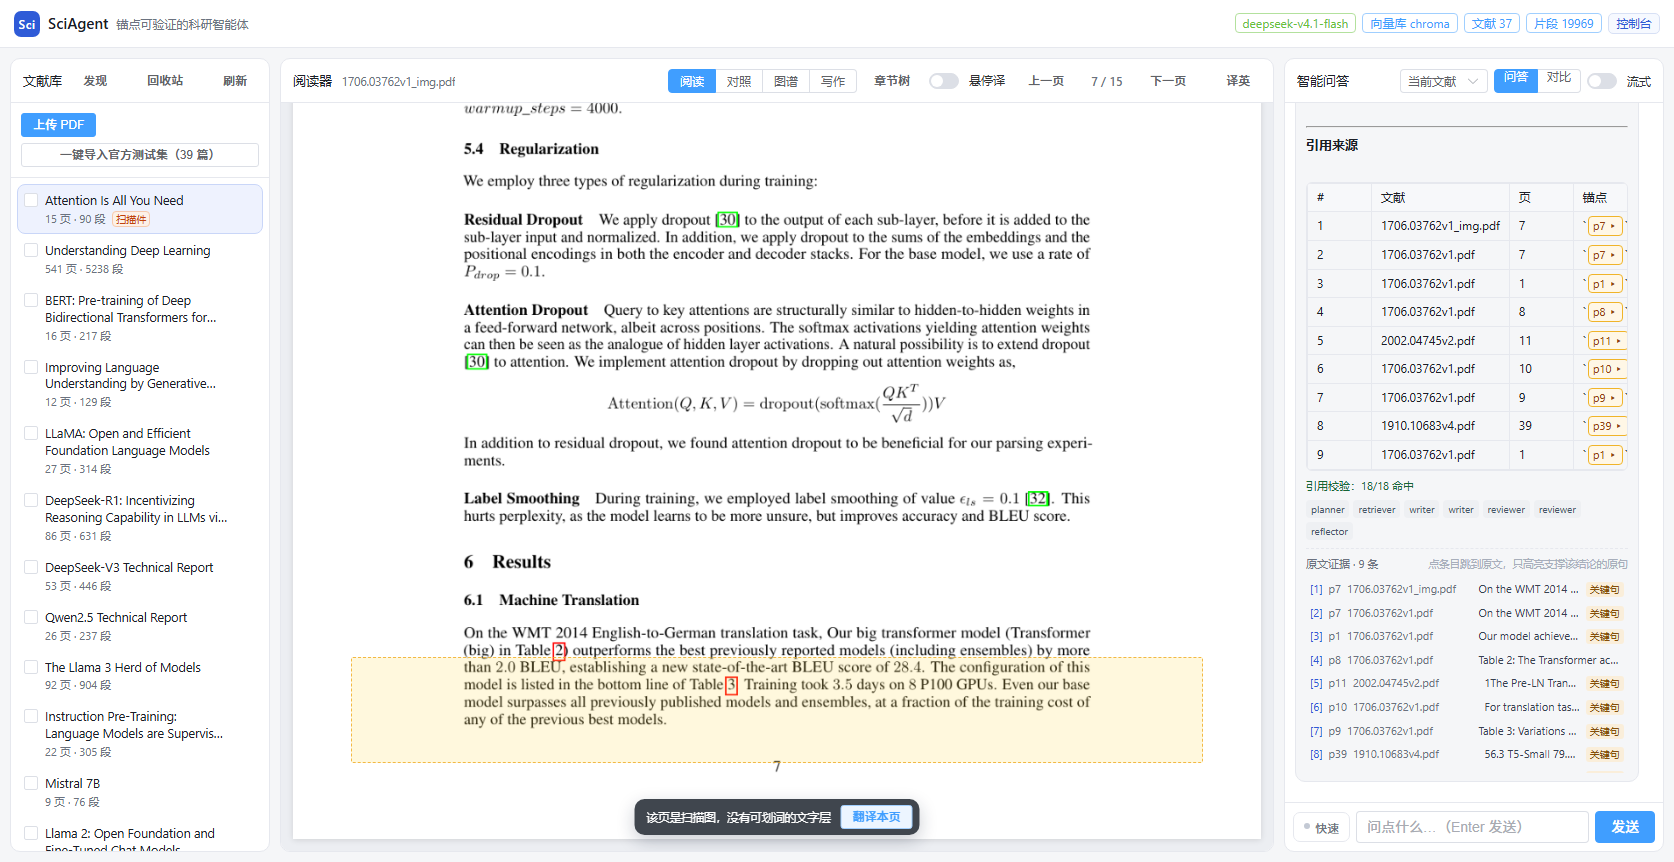
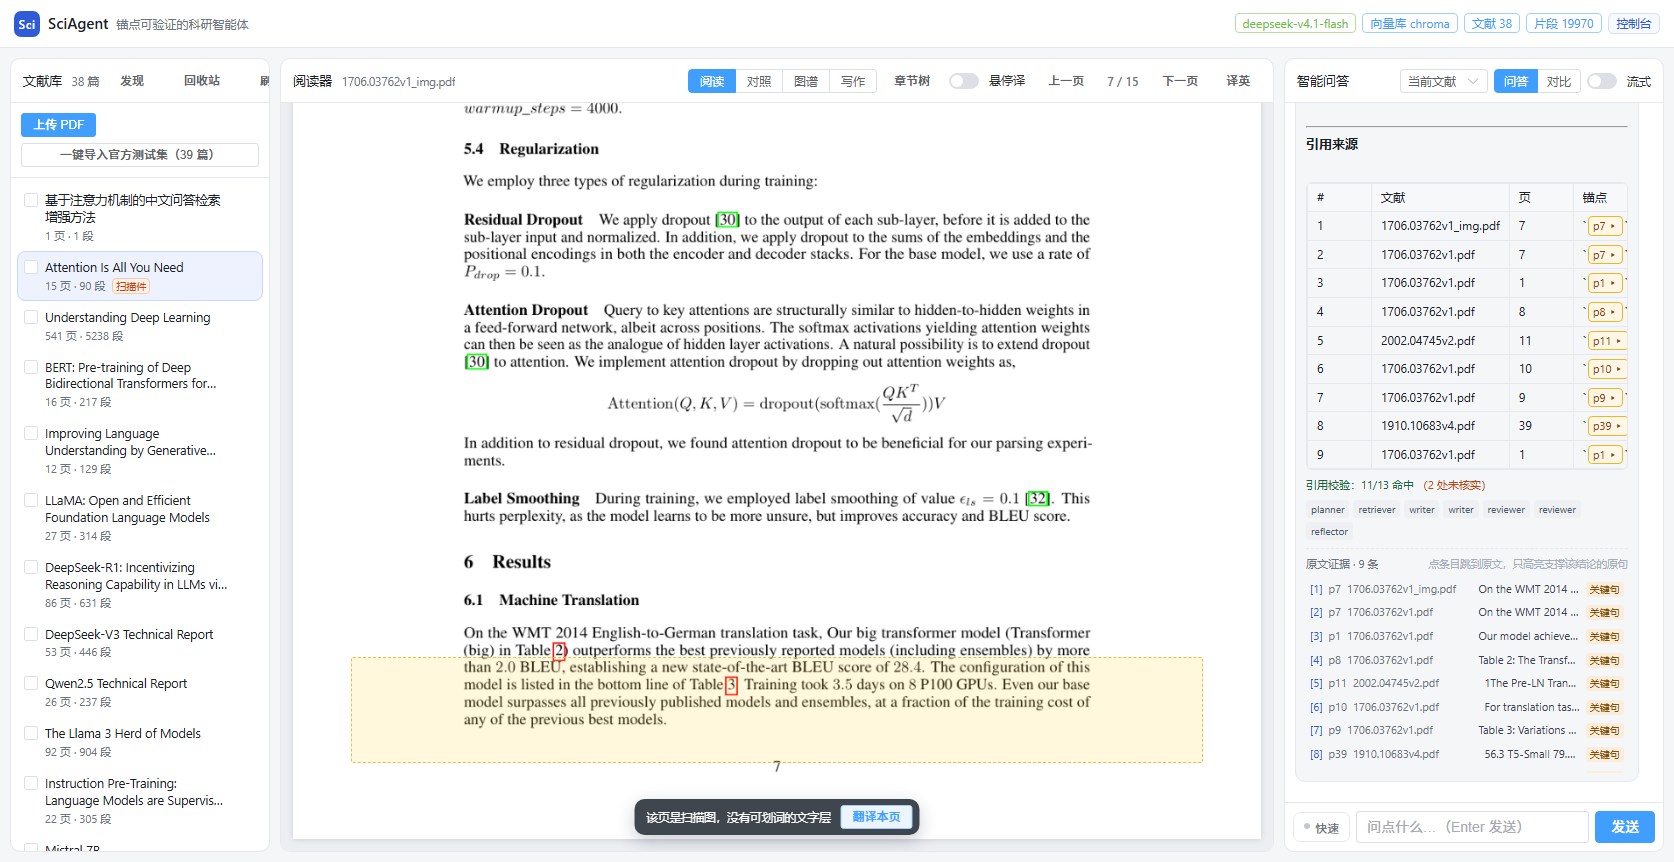
fix(ui): 分段按钮文字顶格（D-80）+ 流式默认开，按官方要求展示思考过程（D-81）
D-80：头部「问答/对比」四个字贴在上边缘。inner 是 inline-block、line-height 12px、
垂直 padding 0，靠 min-height 24px 撑高——inline-block 从盒顶排行盒，文字于是贴顶，
行盒 16px 比 line-height 还高时会向上溢出。实测文字行盒 top=68、按钮 top=69（溢出 1px），
下方空 9px。改成 inline-flex 居中，横向 padding 不动：现在上下各留 4px，
ui_layout_check 的中心线极差仍是 0。

D-81：流式默认关闭时，提问只看到一个转圈、最后整段蹦出，中间过程完全不可见，
与官方“展示思考过程”的要求不符。默认改 true，开关加 title 说明两种模式；
非流式路径保留（显式关掉即用，ui_hl_sentence 仍在跑）。

测试：
- ui_think_toggle 新增 stream_on_by_default（未改任何状态时 streamMode===true）与
  stream_thinking_visible（DOM 里 .think-step ≥3，时间线真画出来），10 项 PASS
- ui_mobile 本机与公网各 7/7；ui_layout_check 中心线 0；ui_hl_sentence 全 true
- 交付截图 02_answer 重拍成流式版（问题 + 四步时间线 + 带引用答案 + 13/13 校验 + 10 条证据）

diff --git a/web/index.html b/web/index.html
@@ -5,7 +5,7 @@
   <meta name="viewport" content="width=device-width, initial-scale=1" />
   <title>SciAgent · 科研智能体</title>
   <link rel="stylesheet" href="/static/vendor/element-plus.css" />
-  <link rel="stylesheet" href="/static/style.css?v=8" />
+  <link rel="stylesheet" href="/static/style.css?v=9" />
   <link rel="stylesheet" href="/static/vendor/katex.min.css" />
   <script src="/static/vendor/katex.min.js"></script>
   <script src="/static/vendor/katex-auto-render.min.js"></script>
@@ -490,7 +490,10 @@
             <el-radio-button label="qa">问答</el-radio-button>
             <el-radio-button label="compare">对比</el-radio-button>
           </el-radio-group>
-          <el-switch v-model="streamMode" size="small" active-text="流式" class="stream-switch"></el-switch>
+          <el-switch v-model="streamMode" size="small" active-text="流式" class="stream-switch"
+                     :title="streamMode
+                       ? '流式：边检索边输出，能看到规划 / 检索 / 通读 / 推理的过程；关掉则一次性返回整段答案'
+                       : '当前为一次性返回，看不到中间过程；打开可看到检索与推理步骤'"></el-switch>
         </div>
       </div>
 
@@ -881,6 +884,6 @@
   </nav>
 </div>
 
-<script src="/static/app.js?v=8"></script>
+<script src="/static/app.js?v=9"></script>
 </body>
 </html>

diff --git a/web/style.css b/web/style.css
@@ -75,6 +75,9 @@ body {
 /* 右栏 380px 内要塞下标题+下拉+两段切换+开关，宽度必须卡死，
  * 否则 select 会被 flex 压缩、文字截成"全部文…" */
 .chat-tools .scope-select { width: 88px; flex: none; }
+/* 「问答 / 对比」这四个字原来顶格：inner 是 inline-block、line-height 12px、
+ * 垂直 padding 为 0，文字从 24px 高的块顶部排起，实测文字行盒 top 比按钮 top
+ * 还高 1px（溢出），下方却空了 9px。改成 inline-flex 居中，横向 padding 不动。 */
 .chat-tools .el-radio-button__inner { padding: 0 9px; }
 .chat-tools .stream-switch { margin-left: 0; }
 /* 头部控件统一 24px 视觉高度（Element small 默认值），
@@ -82,6 +85,13 @@ body {
 .panel-head .el-select__wrapper,
 .panel-head .el-radio-button__inner,
 .panel-head .el-button--small { min-height: 24px; }
+/* 头部所有分段按钮统一垂直居中：只给 min-height 不居中，文字会贴着上边缘
+ * （line-height 小于字号时还会往上溢出，肉眼就是「顶格」） */
+.panel-head .el-radio-button__inner,
+.viewer-tools .el-radio-button__inner {
+  display: inline-flex; align-items: center; justify-content: center;
+  line-height: 1;
+}
 
 /* 页码：等宽数字 + 固定宽度，翻到 10/15 时不会左右跳 */
 .pager-group { display: inline-flex; align-items: center; gap: 2px; flex: none; }

diff --git a/web/app.js b/web/app.js
@@ -229,7 +229,10 @@ const app = createApp({
       question: "",
       mode: "qa",
       scope: "all",
-      streamMode: false,
+      // 流式默认开：官方要求能展示思考过程，而检索/通读/推理这几步只有流式
+      // 才逐个推得出来（非流式是一次性返回整段，用户只看到一个 loading 圈）。
+      // 关掉仍可用：一次性返回，适合网络差时兜底。
+      streamMode: true,
       trash: { visible: false, items: [] },
       // 论文发现与推荐（官方 1.4）：三个 tab 各自独立加载，互不阻塞
       disc: {

diff --git a/tests/ui_think_toggle.py b/tests/ui_think_toggle.py
@@ -80,8 +80,12 @@ def run() -> dict:
         # 1) 按钮存在且跟随后台
         init = js("""(()=>{const v=window.__sciagent;
               const b=document.querySelector('.think-btn');
+              // 这一项要在改任何状态之前读：官方要求能展示思考过程，
+              // 而只有流式推得出「规划→检索→通读→推理」这几步，所以默认必须开
+              const defStream = v.streamMode;
               v.centerView='chat'; v.streamMode=true;
-              return {has:!!b, text:b?b.textContent.trim():'', deep:!!v.thinkDeep, cls:b?b.className:''}})()""")
+              return {has:!!b, text:b?b.textContent.trim():'', deep:!!v.thinkDeep,
+                      cls:b?b.className:'', defStream:defStream}})()""")
         res["steps"].append({"initial": init})
 
         # 2) 两次点击
@@ -102,8 +106,12 @@ def run() -> dict:
                   // 取最后一条：查第一个拿到的是上一条回答的标签
                   const ns=document.querySelectorAll('.msg.assistant .msg-meta');
                   const m=ns[ns.length-1];
+                  // thinkSteps 数的是真画出来的时间线节点，不是状态数组：
+                  // 流式的意义就是这几步用户看得见
+                  const steps=[...document.querySelectorAll('.msg.assistant')].pop();
                   return {loading:!!v.loading, meta:a?a.meta:'', metaDom:m?m.textContent.trim():'',
                           chars:a&&a.html?a.html.length:0,
+                          thinkSteps:steps?steps.querySelectorAll('.think-step').length:0,
                           stages:(a&&a.thinking?a.thinking:[]).filter(x=>x.indexOf('depth')>=0)}})()""")
             if isinstance(deep_state, dict) and not deep_state.get("loading") and deep_state.get("meta"):
                 break
@@ -141,6 +149,8 @@ def run() -> dict:
             "toggle_on": after1.get("text") == "深思" and after1.get("on") is True,
             "deep_label": "深思" in (deep_state.get("metaDom") or ""),
             "deep_stage": bool(deep_state.get("stages")),
+            "stream_on_by_default": init.get("defStream") is True,
+            "stream_thinking_visible": (deep_state.get("thinkSteps") or 0) >= 3,
             "toggle_off": after2.get("text") == "快速" and after2.get("deep") is False,
             "fast_label": "快速" in (fast_state.get("metaDom") or ""),
             "no_js_error": not res["errors"],

diff --git a/tests/shots_for_doc.py b/tests/shots_for_doc.py
@@ -168,7 +168,11 @@ def main() -> int:
             b.js("""(async()=>{const vm=window.__sciagent;
                   const d=vm.docs.find(x=>x.filename.startsWith('1706.03762'))||vm.docs[0];
                   vm.centerView='reader'; await vm.openDoc(d);
-                  await new Promise(r=>setTimeout(r,600)); return 1;})()""")
+                  // 翻到第 4 页再截：首页那页没有词级文本层（pdf 抽不出词），
+                  // 页面会挂「该页是扫描图」提示条 + 「整页翻译」浮钮压在正文上；
+                  // 而且第 4 页正好是讲复杂度的那张表，和问题对得上
+                  vm.page = 4; await vm.loadTextLayer();
+                  await new Promise(r=>setTimeout(r,900)); return 1;})()""")
             b.js("window.__sciagent.ask('Transformer 论文里，自注意力每层的计算复杂度是多少')")
             b.wait("!window.__sciagent.loading && window.__sciagent.messages.length > 0", 120, 0.6)
             # 回到对话顶部：要的是"问题 + 答案开头 + 引用编号"，滚到底只剩证据列表，

diff --git a/docs/qa/02_defects.md b/docs/qa/02_defects.md
@@ -319,3 +319,17 @@
 > 这一轮最值钱的是 **D-79**：它不是手机版才有的问题，桌面端一样存在，
 > 只是"搜索框按回车也能搜、下拉默认值也能用"，谁都没去点那两个按钮。
 > 手机版把它放大了——屏幕小到没法忽略一个不存在的按钮。
+
+
+## 第二十四轮：两处「一眼看得出但不影响功能」的观感问题（2026-11-12 19:54–20:20）
+
+用户拿手机截图指出：`问答 / 对比` 这四个字顶格；并且提醒官方文档要求展示思考过程，
+流式应当默认打开。两条都不影响功能，但一条影响第一印象，一条影响"是否符合赛事要求"。
+
+| 编号 | 分级 | 现象 | 根因 | 改法 | 验证 |
+| --- | --- | --- | --- | --- | --- |
+| D-80 | P3 → 已修 | 头部「问答 / 对比」两个分段按钮里的文字贴着上边缘（手机截图一眼就看出"顶格"） | `.el-radio-button__inner` 是 `inline-block` + `padding: 0 9px` + `line-height: 12px`，靠 `min-height: 24px` 撑高。inline-block 从盒顶开始排行盒，文字于是贴在顶部；行盒 16px > line-height 12px 时还会往上溢出。实测文字行盒 top=68、按钮 top=69（**超出 1px**），下方却空了 9px | 头部/阅读器工具条的分段按钮统一 `display: inline-flex; align-items: center; justify-content: center; line-height: 1`，横向 padding 不动 | 实测文字行盒 top=73、按钮 69~93，上下各留 4px；`ui_layout_check.py` 三者中心线极差仍为 0、高度 24/24/24；`ui_mobile.py` 7 项仍 PASS |
+| D-81 | P2 → 已修 | 「流式」开关默认关闭：用户提问只看到一个转圈，最终一次性蹦出整段答案，**中间过程完全不可见** | `streamMode: false` 是当初为"网络差时兜底"设的默认值。但官方文档明确要求呈现思考/推理过程，而检索、通读、引用校验这几步只有 SSE 才逐个推得出来（非流式是一次性返回） | 默认改 `true`；开关加 `title` 说明两种模式的区别；非流式路径保留（关掉即用），不删代码 | `ui_think_toggle.py` 新增两项断言：`stream_on_by_default`（页面刚加载、未改任何状态时 `streamMode === true`）、`stream_thinking_visible`（深思提问时 DOM 里 `.think-step` ≥3 个，即时间线真的画出来了）——10 项全 PASS；`ui_hl_sentence.py` 显式关流式仍 PASS，证明两条路径都在 |
+
+> 顺带把交付截图 `02_answer.png` 重拍成流式版：现在能同时看到"问题 / 四步思考时间线 /
+> 带 [2] 引用的答案 / 13/13 引用校验 / 10 条原文证据"，一张图把可解释性讲完。

diff --git a/docs/qa/06_manual_checklist.md b/docs/qa/06_manual_checklist.md
@@ -28,6 +28,8 @@
 | A6 | 打开「深思」再问 A1 | 首字 3–4 秒，答案带推理痕迹，总时长翻倍 | 深思下慢是预期，不算卡 |
 | A7 | 点答案里的引用角标 | 跳到阅读器对应页、对应高亮框 | — |
 | A8 | 连续问 5 个问题 | 第 5 个不明显变慢（< 20 秒） | 变慢说明缓存没生效 |
+| A9 | 打开页面直接问（不动任何开关） | **流式默认开**：答案上方依次出现「任务规划 / 检索命中 N 条 / 通读证据 / 引用校验」时间线 | 自动：`ui_think_toggle.py`（含"默认值必须为 true"与"时间线 ≥3 步真的画出来"） |
+| A10 | 关掉「流式」再问同一个问题 | 一次性返回整段，看不到中间步骤；答案、引用、证据与流式一致 | 自动：`ui_hl_sentence.py`（显式关流式跑） |
 
 ## B. 阅读器与锚点
 
